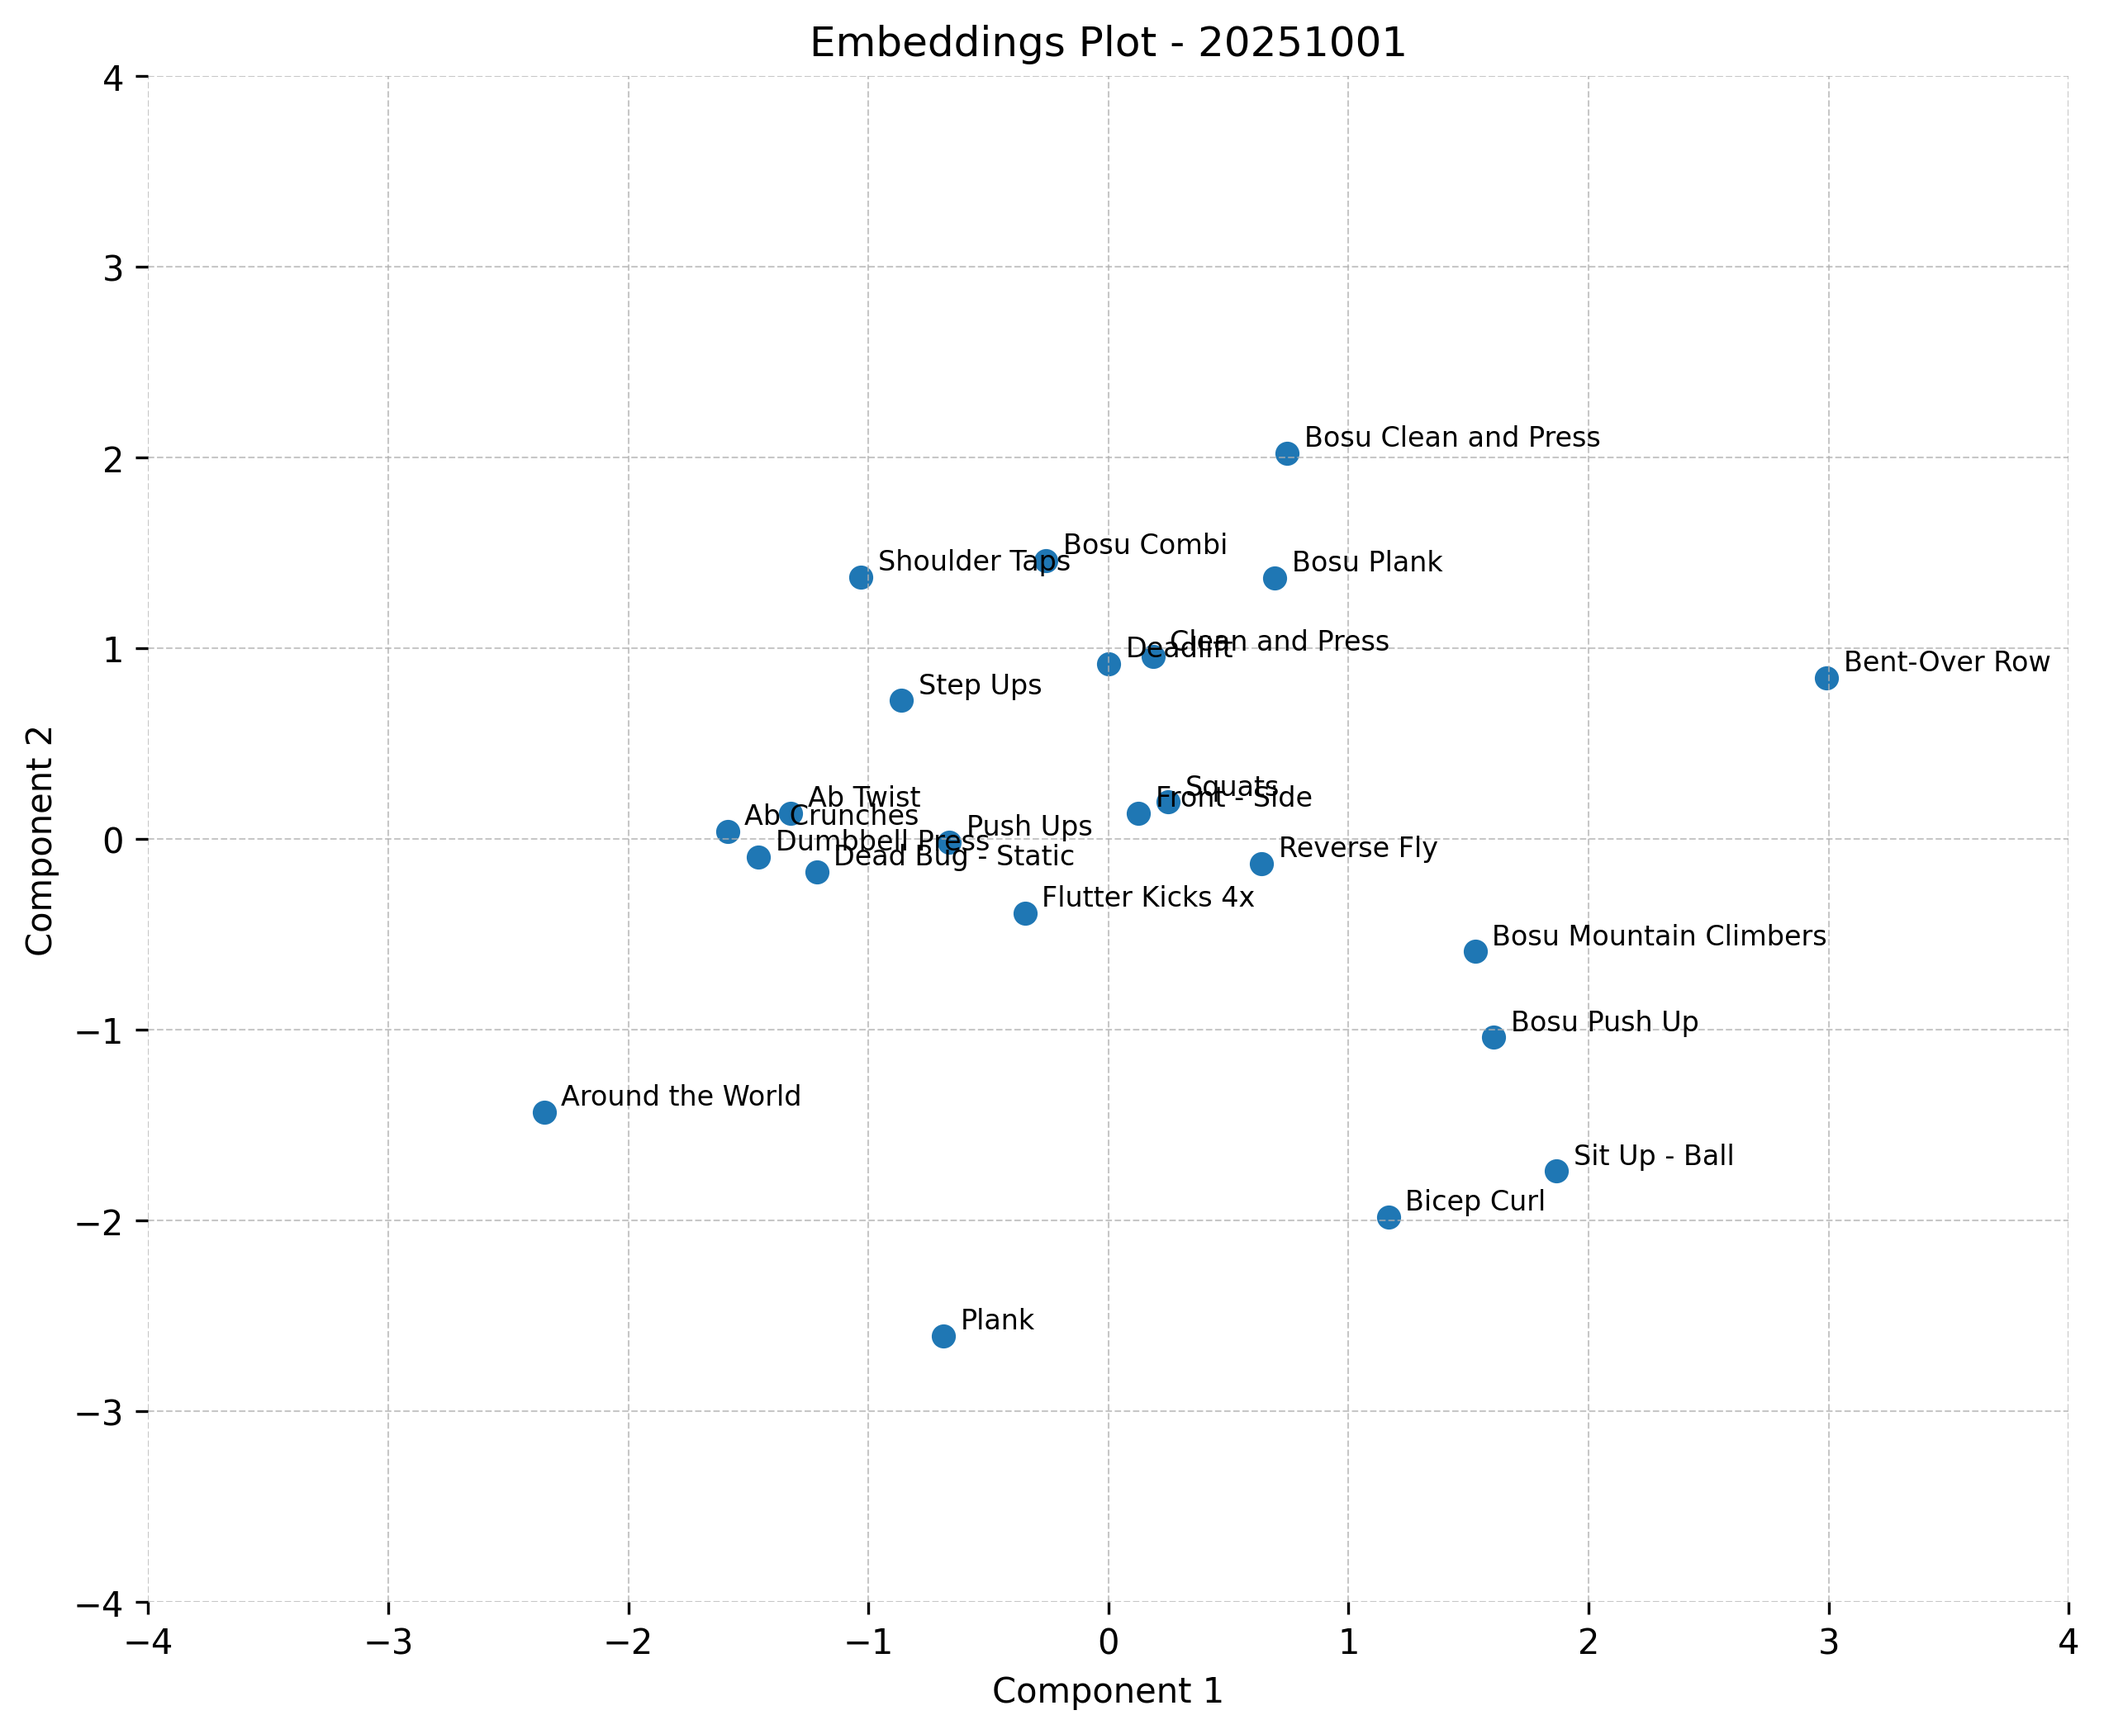
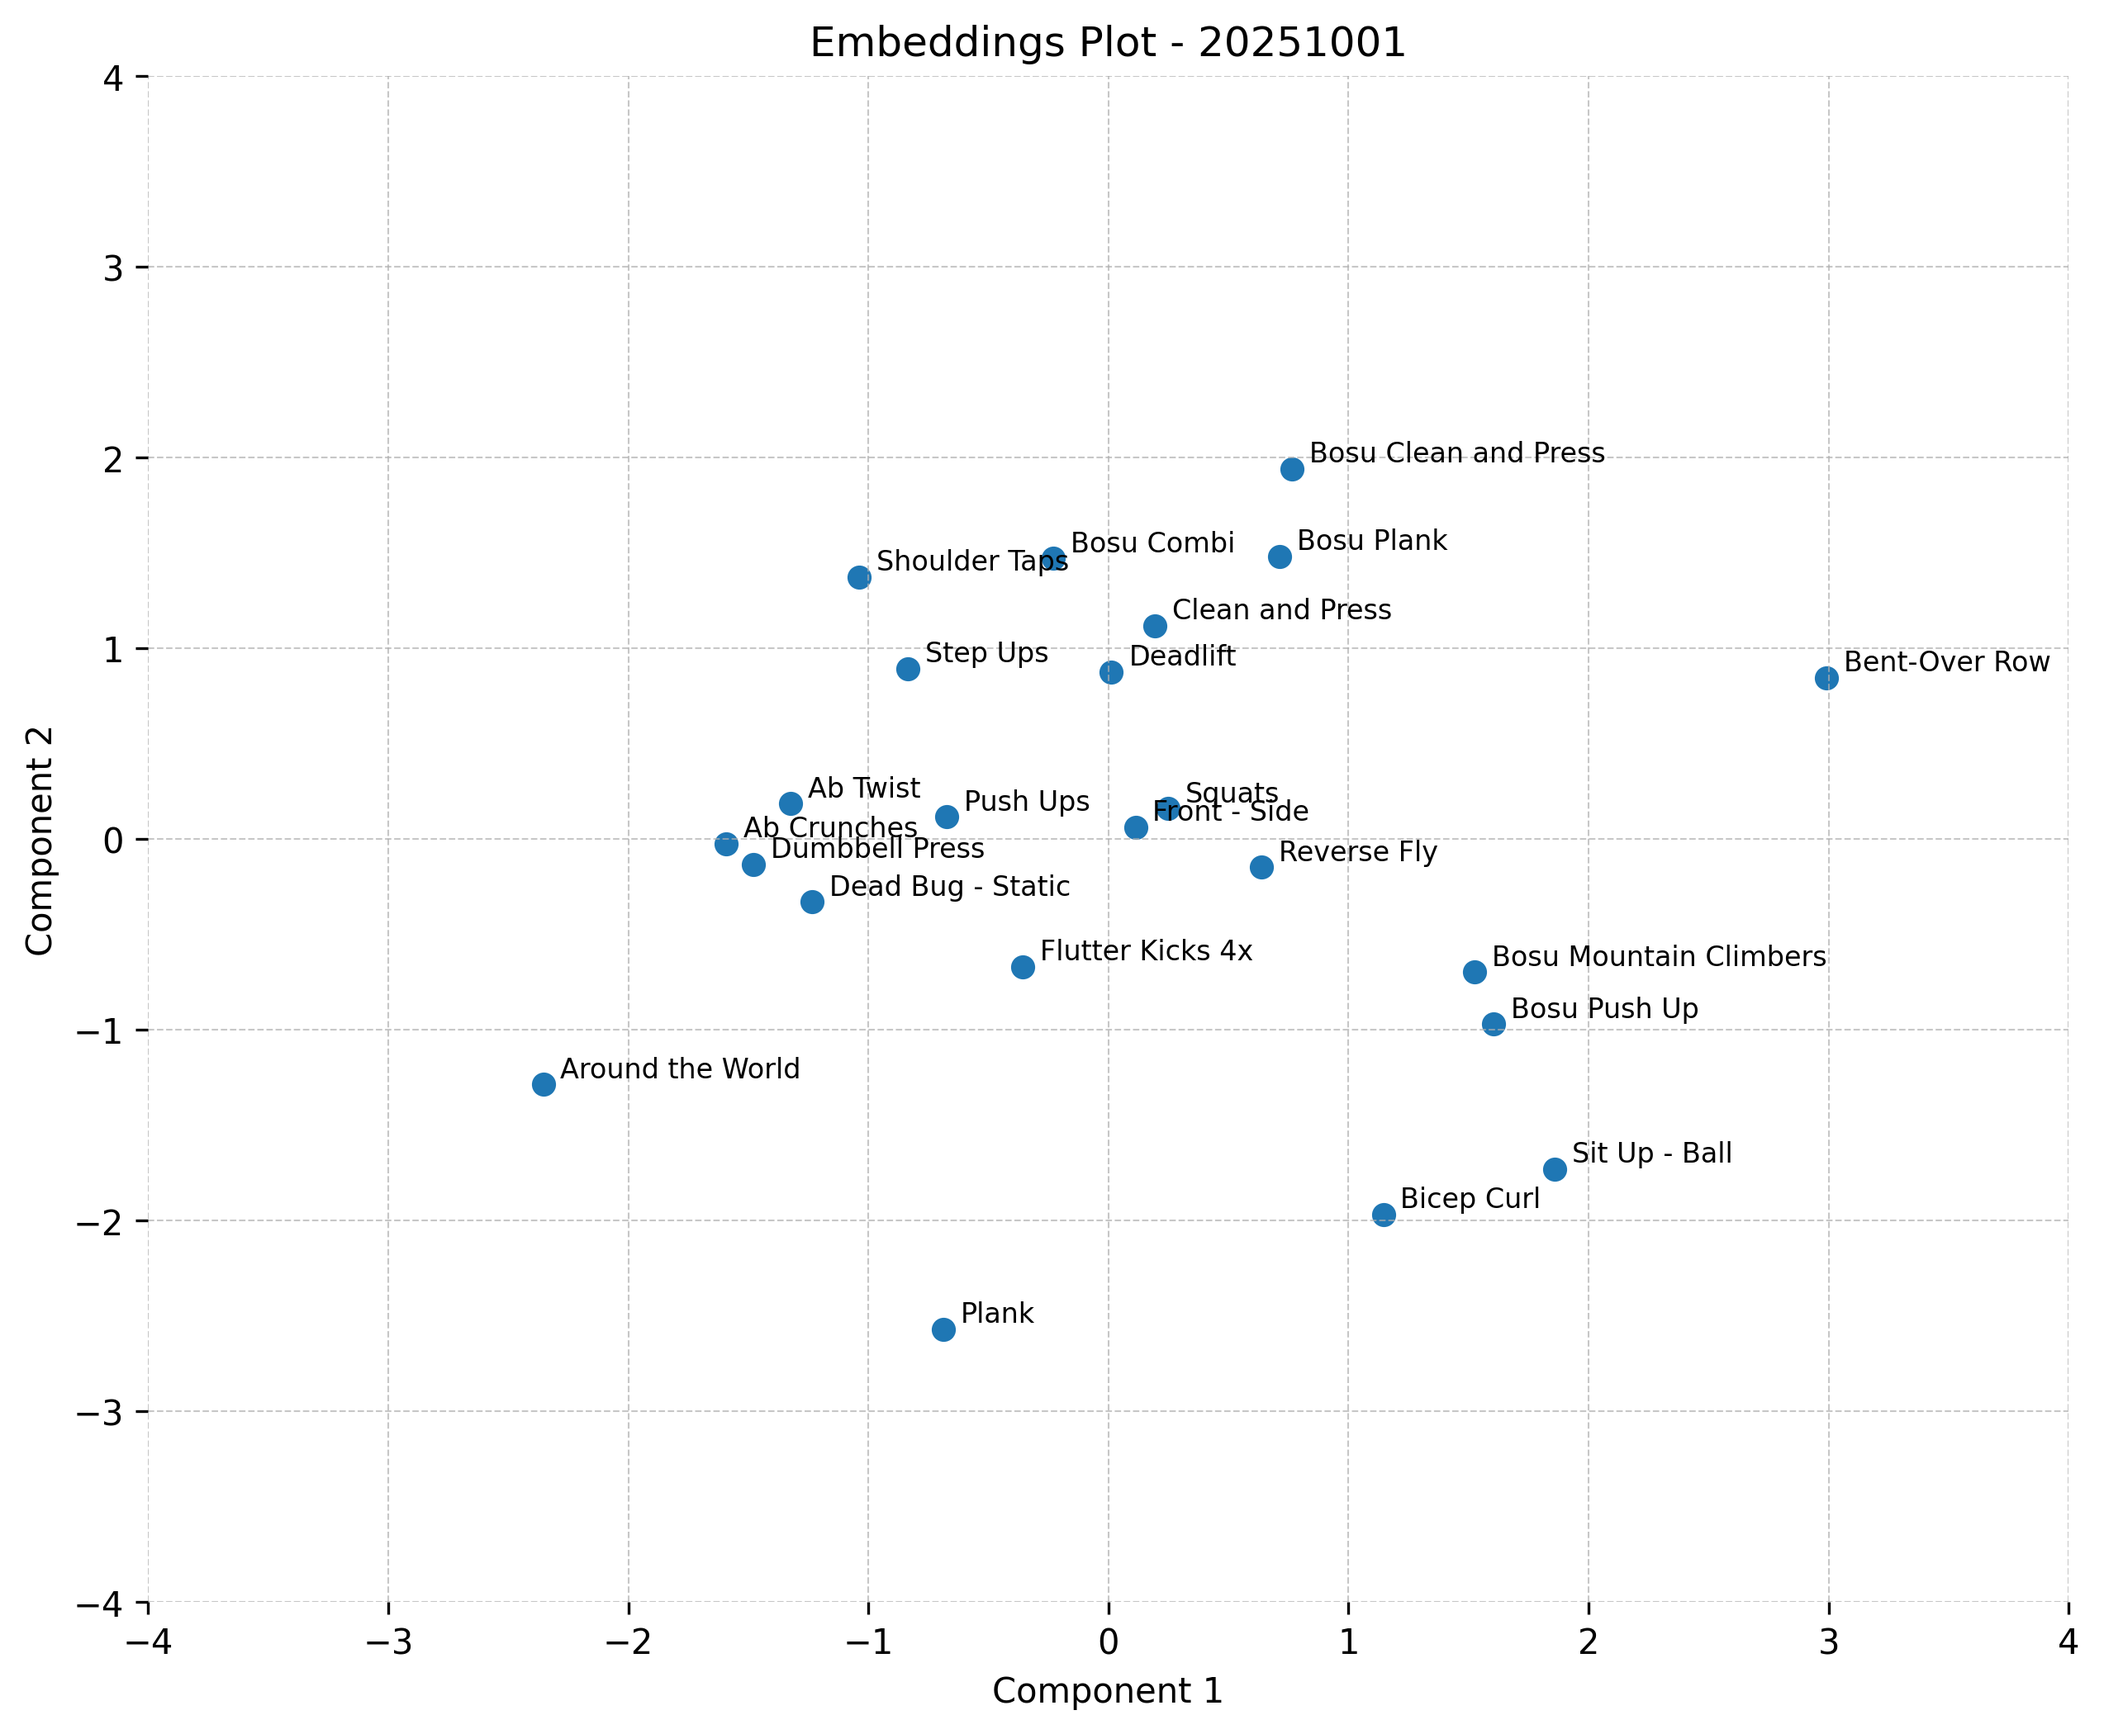
Reduced weight on warming-up. This should result in more reps in the core of the workout.

diff --git a/v1/FR/frontend.py b/v1/FR/frontend.py
@@ -28,11 +28,11 @@ class AirFitApp:
         return f'{workout_id}, {intensity}'
 
     def general_workout(self):
-        self.repo.delete_unrated_workouts()  # Uncomment for testing!
+        # self.repo.delete_unrated_workouts()  # Uncomment for testing!
         workout = self.repo.get_available_workout()
         if len(workout[0]) < 5:
             self.repo.delete_unrated_workouts()
-            WorkoutFactory.workout_factory('forge').generate()  # 'schedule'
+            WorkoutFactory.workout_factory('schedule').generate()  # 'schedule'
             workout = self.repo.get_available_workout()
         workout_id = workout[0][0][0]
         workout = [(w[1], '-' if w[2] == 0 else w[2], w[3]) for w in workout[0]]

diff --git a/v1/AI/data_preprocessing.py b/v1/AI/data_preprocessing.py
@@ -34,6 +34,7 @@ class WorkoutPreprocessor:
         self.weighted_loss = (self.weighted_loss - self.weighted_loss.min()) / (self.weighted_loss.max() - self.weighted_loss.min())
         self.weighted_loss[0] = self.weighted_loss[1] / 2 # avoid 0 for now. Will go to 0 anyway.
 
+
         self.ds = WorkoutDataset(self.embeddings_x, self.data_x, self.data_y, self.weighted_loss)
 
 

diff --git a/v1/WO/WorkoutFactory.py b/v1/WO/WorkoutFactory.py
@@ -37,7 +37,7 @@ def workout_factory(workout_type):
             case 1 | 3:
                 workout_type = 'running'
             case 0 | 2:
-                workout_type = 'combo'
+                workout_type = 'forge'
             case 4 | 5:
                 workout_type = 'short'
             case 6:

diff --git a/v1/WO/BasicWorkout.py b/v1/WO/BasicWorkout.py
@@ -106,7 +106,7 @@ class BasicWorkout(ABC):
             e_weight = np.where(e_weight < 0.001, 0.001, e_weight)
 
             weights = 1/(e_weight.squeeze()[:e_length])
-            weights[:5] *= 10
+            weights[:5] *= 0.8
 
             to_increase = workout.sample(n=1, weights=weights)
 
